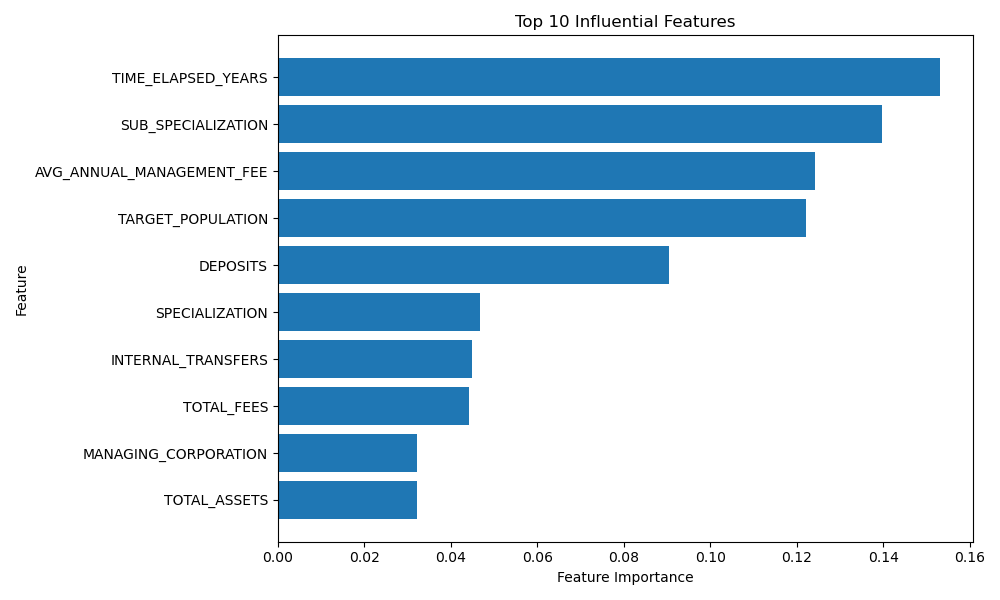
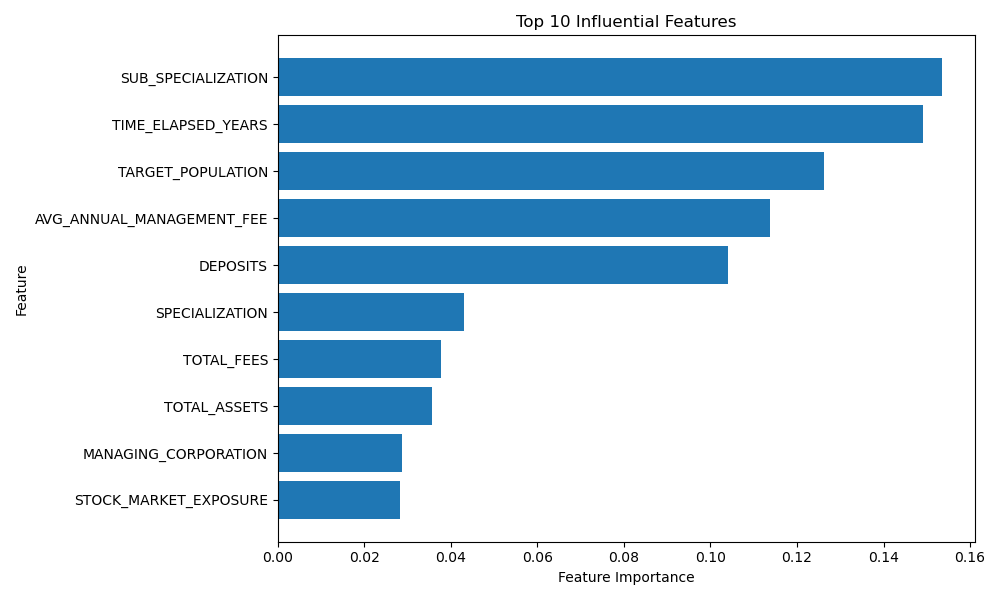
recommender system add

diff --git a/classification_pipeline.py b/classification_pipeline.py
@@ -1,5 +1,6 @@
 import pandas as pd
 import numpy as np
+import random
 import matplotlib.pyplot as plt
 from sklearn.model_selection import train_test_split, cross_val_score
 from sklearn.ensemble import RandomForestClassifier
@@ -8,7 +9,6 @@ from sklearn.linear_model import LogisticRegression
 from sklearn.neighbors import KNeighborsClassifier
 from sklearn.metrics import classification_report, accuracy_score, f1_score
 from sklearn.preprocessing import LabelEncoder, StandardScaler
-from sklearn.impute import SimpleImputer
 from sklearn.model_selection import GridSearchCV
 from sklearn.svm import SVC
 from scipy.cluster.hierarchy import linkage, dendrogram, fcluster
@@ -17,24 +17,33 @@ from sklearn.cluster import KMeans, DBSCAN
 from sklearn.ensemble import IsolationForest
 from sklearn.neighbors import LocalOutlierFactor
 from sklearn.svm import OneClassSVM
+from sklearn.metrics.pairwise import cosine_similarity
 
 
 def preprocessing(df):
     """
-    Contains data cleaning (missing values, irrelevant features), feature engineering and encoding to prep the data for the model
+    Contains data cleaning (missing values, irrelevant features),
+    feature engineering and encoding to prep the data for the model.
     """
     drop_features = [  # Columns with excessive missing values or unnecessary for classification
         'AVG_DEPOSIT_FEE', 'ALPHA', 'YIELD_TRAILING_5_YRS',
         'AVG_ANNUAL_YIELD_TRAILING_5YRS', 'STANDARD_DEVIATION',
         'SHARPE_RATIO', 'YIELD_TRAILING_3_YRS', 'AVG_ANNUAL_YIELD_TRAILING_3YRS',
-        'MANAGING_CORPORATION_LEGAL_ID', 'CONTROLLING_CORPORATION', 'FUND_NAME', 'FUND_ID'
-    ]
+        'MANAGING_CORPORATION_LEGAL_ID', 'CONTROLLING_CORPORATION', 'FUND_ID']
     df = df.drop(columns=drop_features)
     df = df.dropna(subset=['MONTHLY_YIELD', 'YEAR_TO_DATE_YIELD'],
                    how='all')
-    num_features = ['AVG_ANNUAL_MANAGEMENT_FEE', 'MONTHLY_YIELD', 'YEAR_TO_DATE_YIELD']
-    df[num_features] = df[num_features].fillna(df[num_features].median())  # ChatGPT: Fill missing values with median
+    num_features = ['DEPOSITS', 'WITHDRAWLS', 'INTERNAL_TRANSFERS', 'NET_MONTHLY_DEPOSITS',
+                    'TOTAL_ASSETS', 'AVG_ANNUAL_MANAGEMENT_FEE', 'MONTHLY_YIELD',
+                    'YEAR_TO_DATE_YIELD', 'LIQUID_ASSETS_PERCENT', 'STOCK_MARKET_EXPOSURE',
+                    'FOREIGN_EXPOSURE', 'FOREIGN_CURRENCY_EXPOSURE']
+    for feature in num_features:
+        df[feature] = df.groupby('FUND_NAME')[feature].transform(lambda x: x.fillna(x.mean()))
+        # ChatGPT : Identify rows where the feature is still NaN after the group mean fill
+        invalid_groups = df.groupby('FUND_NAME')[feature].transform('mean').isnull()
+        df = df[~invalid_groups]
 
+    df = df.drop(columns='FUND_NAME')  # creates bias for the model since it contains info present in other features
     df['INCEPTION_DATE'] = pd.to_datetime(df['INCEPTION_DATE'], errors='coerce')
     df['REPORT_PERIOD'] = pd.to_datetime(df['REPORT_PERIOD'].astype(str), format='%Y%m')
     df['TIME_ELAPSED_YEARS'] = ((df['REPORT_PERIOD'] - df['INCEPTION_DATE']).dt.days.fillna(
@@ -43,8 +52,8 @@ def preprocessing(df):
     df = df.drop(columns=['INCEPTION_DATE', 'REPORT_PERIOD'])
 
     # # # FEATURE ENGINEERING # # #
-    fee_min = df['AVG_ANNUAL_MANAGEMENT_FEE'].min()
-    fee_max = df['AVG_ANNUAL_MANAGEMENT_FEE'].max()
+    fee_min = df['AVG_ANNUAL_MANAGEMENT_FEE'].min() - 0.01
+    fee_max = df['AVG_ANNUAL_MANAGEMENT_FEE'].max() + 0.01
 
     df['FEE_BUCKET'] = pd.cut(
         df['AVG_ANNUAL_MANAGEMENT_FEE'],
@@ -63,17 +72,17 @@ def preprocessing(df):
     return df, encoders
 
 
-def train_and_evaluate_model(model, X_train, y_train, X_test, y_test):
+def train_and_evaluate_model(model, x_train, y_train, x_test, y_test):
     """
-    Will be used to run several models with same script
+    Used to run several models with same script
     """
-    model.fit(X_train, y_train)
-    y_pred = model.predict(X_test)
+    model.fit(x_train, y_train)
+    y_pred = model.predict(x_test)
     accuracy = accuracy_score(y_test, y_pred)
     f1 = f1_score(y_test, y_pred, average='weighted')
     report = classification_report(y_test, y_pred)  # ChatGPT: print report of model
 
-    cross_val_scores = cross_val_score(model, X_train, y_train, cv=5, scoring='accuracy')  # Cross-validation
+    cross_val_scores = cross_val_score(model, x_train, y_train, cv=5, scoring='accuracy')  # Cross-validation
     cv_mean = cross_val_scores.mean()  # Mean cross-validation score
     return {
         "model": model,
@@ -86,7 +95,7 @@ def train_and_evaluate_model(model, X_train, y_train, X_test, y_test):
 
 def plot_comparison(results):
     """
-    :return: Plot of each model performance
+    Plot of each model performance
     """
     model_names = list(results.keys())
     accuracies = [metrics['accuracy'] for metrics in results.values()]
@@ -101,7 +110,7 @@ def plot_comparison(results):
     plt.legend()  # Add legend
     plt.tight_layout()
     # plt.show() # Uncomment if you want to allow plot display, needs manual closing for the code to continue running.
-    # plt.savefig('graph_results/models_comparison.png')
+    plt.savefig('graph_results/models_comparison.png')
     plt.close()
 
 
@@ -128,13 +137,13 @@ def display_feature_importance(model, feature_names, top_n=10):
         plt.gca().invert_yaxis()  # Invert y-axis
         plt.tight_layout()
         # plt.show()
-        # plt.savefig('graph_results/feature_importance.png')
+        plt.savefig('graph_results/feature_importance.png')
         plt.close()
     else:
         print("The provided model does not support feature importance.")
 
 
-def perform_classification(X, X_scaled, y):
+def run_classification(X, X_scaled, y):
     """
     1. GridSearch for parameter tuning
     2. Finding the best model based on accuracy
@@ -188,7 +197,7 @@ def perform_classification(X, X_scaled, y):
         display_feature_importance(best_xgboost_model, X.columns)
 
 
-def perform_clustering(X):
+def run_clustering(X):
     """
     1. Testing Kmeans, Hierarchical and DBSCAN
     2. Finding the best clustering model based on accuracy
@@ -212,7 +221,7 @@ def perform_clustering(X):
     plt.ylabel('WCSS (Within-Cluster Sum of Squares)')
     plt.grid()
     # plt.show()
-    # plt.savefig('graph_results/elbow_method_res.png')
+    plt.savefig('graph_results/elbow_method_res.png')
     plt.close()
 
     optimal_k = 3  # based on visual inspection of the elbow plot
@@ -232,14 +241,14 @@ def perform_clustering(X):
     plt.xlabel("Data Points or Clusters")
     plt.ylabel("Distance")
     # plt.show()
-    # plt.savefig('graph_results/hierarchical_dendrogram.png')
+    plt.savefig('graph_results/hierarchical_dendrogram.png')
     plt.close()
 
     optimal_threshold = 100  # based on dendrogram inspection
     hierarchical_labels = fcluster(linkage_matrix, t=optimal_threshold, criterion='distance')
     num_clusters_hierarchical = len(np.unique(hierarchical_labels))
-    print(
-        f"Number of clusters found using hierarchical clustering (height={optimal_threshold}): {num_clusters_hierarchical}")
+    print(f"Number of clusters found using hierarchical clustering"
+          f" (height={optimal_threshold}): {num_clusters_hierarchical}")
 
     # DBSCAN
     print("\nPerforming Hierarchical Clustering")
@@ -251,6 +260,7 @@ def perform_clustering(X):
     num_clusters_dbscan = len(np.unique(dbscan_labels[dbscan_labels != -1]))  # Exclude noise
     num_noise_points = np.sum(dbscan_labels == -1)
     print(f"DBSCAN: {num_clusters_dbscan} clusters found, {num_noise_points} noise points")
+
     # ChatGPT: Plot the DBSCAN results
     plt.figure(figsize=(10, 6))
     unique_labels = set(dbscan_labels)
@@ -267,8 +277,6 @@ def perform_clustering(X):
     plt.legend()
     plt.tight_layout()
     # plt.show()
-
-    # Save the plot
     plt.savefig('graph_results/dbscan_clusters.png')
     plt.close()
 
@@ -293,7 +301,7 @@ def perform_clustering(X):
     plt.ylabel('Number of Clusters')
     plt.xlabel('Clustering Method')
     # plt.show()
-    # plt.savefig('graph_results/clusters_comparison.png')
+    plt.savefig('graph_results/clusters_comparison.png')
     plt.close()
     return {
         "KMeans": {
@@ -315,7 +323,7 @@ def perform_clustering(X):
     }
 
 
-def perform_anomaly_detection(X, df):
+def run_anomaly_detection(X, df):
     """
     Perform anomaly detection using Isolation Forest, Local Outlier Factor (LOF), and One-Class SVM.
     Results include detection of anomalies, model comparison, and identification of anomalies in the raw dataset.
@@ -351,7 +359,7 @@ def perform_anomaly_detection(X, df):
     plt.ylabel('Number of Anomalies')
     plt.xlabel('Anomaly Detection Method')
     # plt.show()
-    # plt.savefig('graph_results/anomalies_res.png')
+    plt.savefig('graph_results/anomalies_res.png')
     plt.close()
 
     print("\nIdentifying Anomalies Using the Best Model")
@@ -381,30 +389,83 @@ def perform_anomaly_detection(X, df):
     }
 
 
+def recommend_similar_funds(df, fund_name, top_n=3):
+    """
+    Recommends the top N most similar funds using content-based filtering and cosine similarity. This function
+    targets performance-risk metrics such as alpha, sharpe ratio, and standard deviation to provide recommendations
+    based on a performance-risk scale.
+
+    Read more about Sharpe Ratio and Alpha here:
+    https://www.investopedia.com/ask/answers/021315/what-difference-between-sharpe-ratio-and-alpha.asp
+    """
+    num_features = ['ALPHA', 'STANDARD_DEVIATION', 'SHARPE_RATIO']
+    cat_feature = ['FUND_NAME']
+    df = df.dropna(subset=num_features, how='all').copy()
+    for feature in num_features:
+        df[feature] = df.groupby(cat_feature)[feature].transform(
+            lambda x: x.fillna(x.mean())
+        )
+    df[cat_feature] = df[cat_feature].fillna('Unknown')
+    df = df.drop_duplicates(subset='FUND_NAME', keep='first')
+    relevant_columns = num_features + cat_feature
+    df = df[relevant_columns].copy()
+    scaler = StandardScaler()
+    numerical_data = scaler.fit_transform(df[num_features])
+    categorical_data = pd.get_dummies(df[cat_feature])
+    combined_features = np.hstack([numerical_data, categorical_data.values])
+
+    # Compute cosine similarity
+    cosine_sim = cosine_similarity(combined_features)
+    similarity_df = pd.DataFrame(
+        cosine_sim, index=df['FUND_NAME'], columns=df['FUND_NAME']
+    )
+    if fund_name not in similarity_df.index:
+        raise ValueError(f"Fund name '{fund_name}' not found in the dataset.")
+
+    similarity_series = similarity_df.loc[fund_name]
+    similar_funds = (
+        similarity_series
+        .drop(fund_name, errors='ignore')  # Exclude the fund itself
+        .pipe(pd.Series.sort_values, ascending=False)  # Explicitly use pandas.Series.sort_values
+        .head(top_n)
+    )
+    return list(similar_funds.index)
+
+
 def main():
     df = pd.read_csv('gemel_net_dataset.csv')
 
     # # # PREPROCESSING # # #
+    print('\n===== Running preprocessing =====')
     df_preprocessed, label_encoders = preprocessing(df)
     X = df_preprocessed.drop(columns=['FUND_CLASSIFICATION'])
     y = df_preprocessed['FUND_CLASSIFICATION']
-    imputer = SimpleImputer(strategy="median")  # Handle missing values before fitting
-    X_imputed = imputer.fit_transform(X)
     scaler = StandardScaler()
-    X_scaled = scaler.fit_transform(X_imputed)
+    X_scaled = scaler.fit_transform(X)
 
-    # # # CLASSIFICATION # # #
-    # debug(X, X_scaled, y)
-    # perform_classification(X, X_scaled, y)
+    # # # # CLASSIFICATION # # #
+    print('\n===== Running classification model =====')
+    run_classification(X, X_scaled, y)
 
-    # # # #  UNSUPERVISED ANALYSIS  # # #
+    # # # # #  UNSUPERVISED ANALYSIS  # # #
+    print('\n===== Running unsupervised analysis =====')
     print("\nApplying PCA for Dimensionality Reduction")
     pca = PCA(n_components=10)
     X_pca = pca.fit_transform(X_scaled)
+    run_clustering(X_pca)
+    run_anomaly_detection(X_pca, df_preprocessed)
 
-    perform_clustering(X_pca)
-    # perform_anomaly_detection(X_pca, df_preprocessed)
+    # # # # RECOMMENDER SYSTEM # # #
+    print('\n===== Running recommender system =====')
+    funds = df['FUND_NAME'].unique().tolist()
+    fund_name = 'סלייס קופת גמל להשקעה אג"ח ללא מניות'
+    # fund name example, print(random.choice(funds)) to try another fund.
+    similar_funds = recommend_similar_funds(df, fund_name, top_n=3)
+    print(f"Top {len(similar_funds)} funds similar to '{fund_name}' are:")
+    for rec in similar_funds:
+        print(f"{rec}")
 
 
 if __name__ == '__main__':
     main()
+
